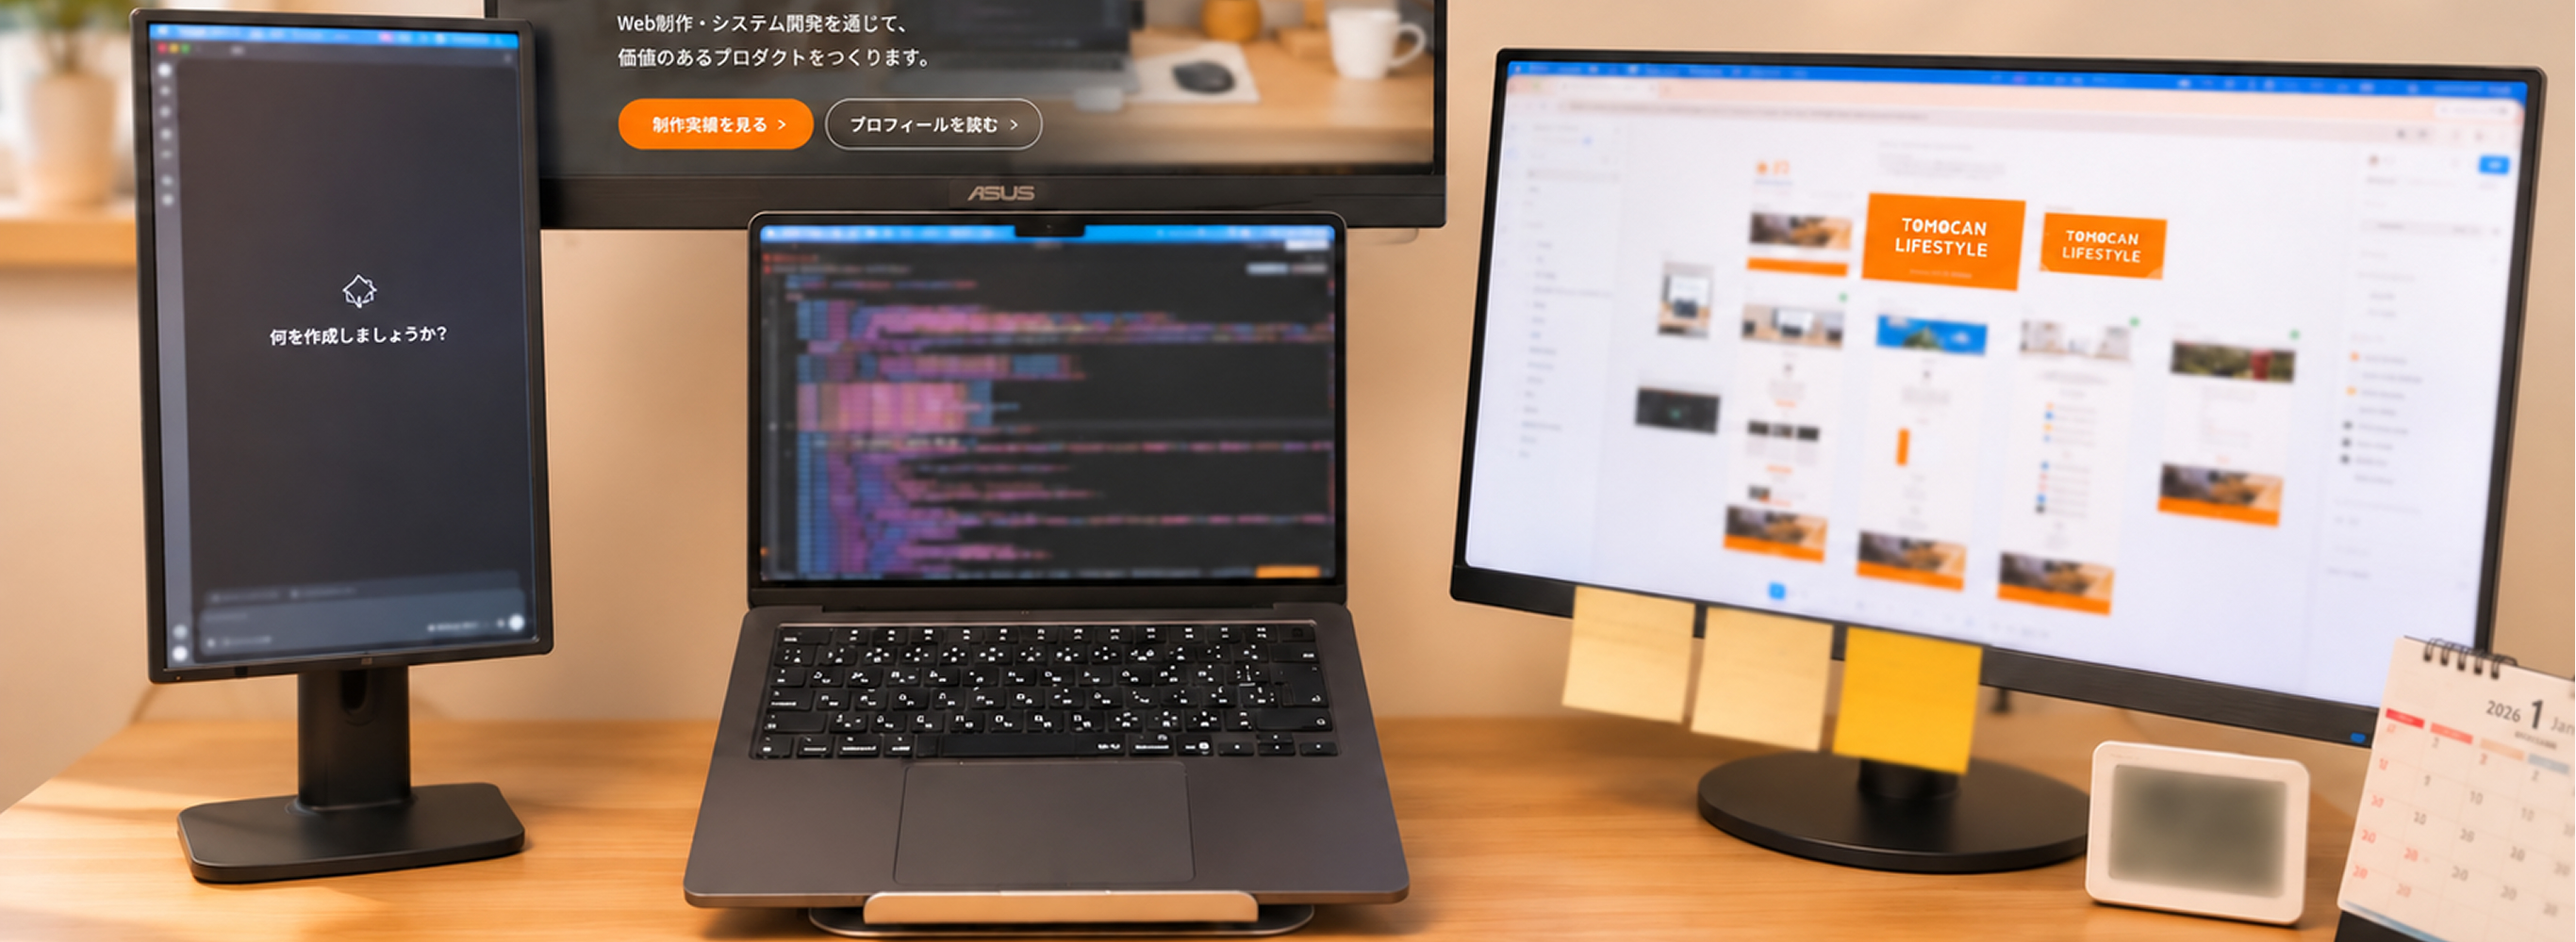
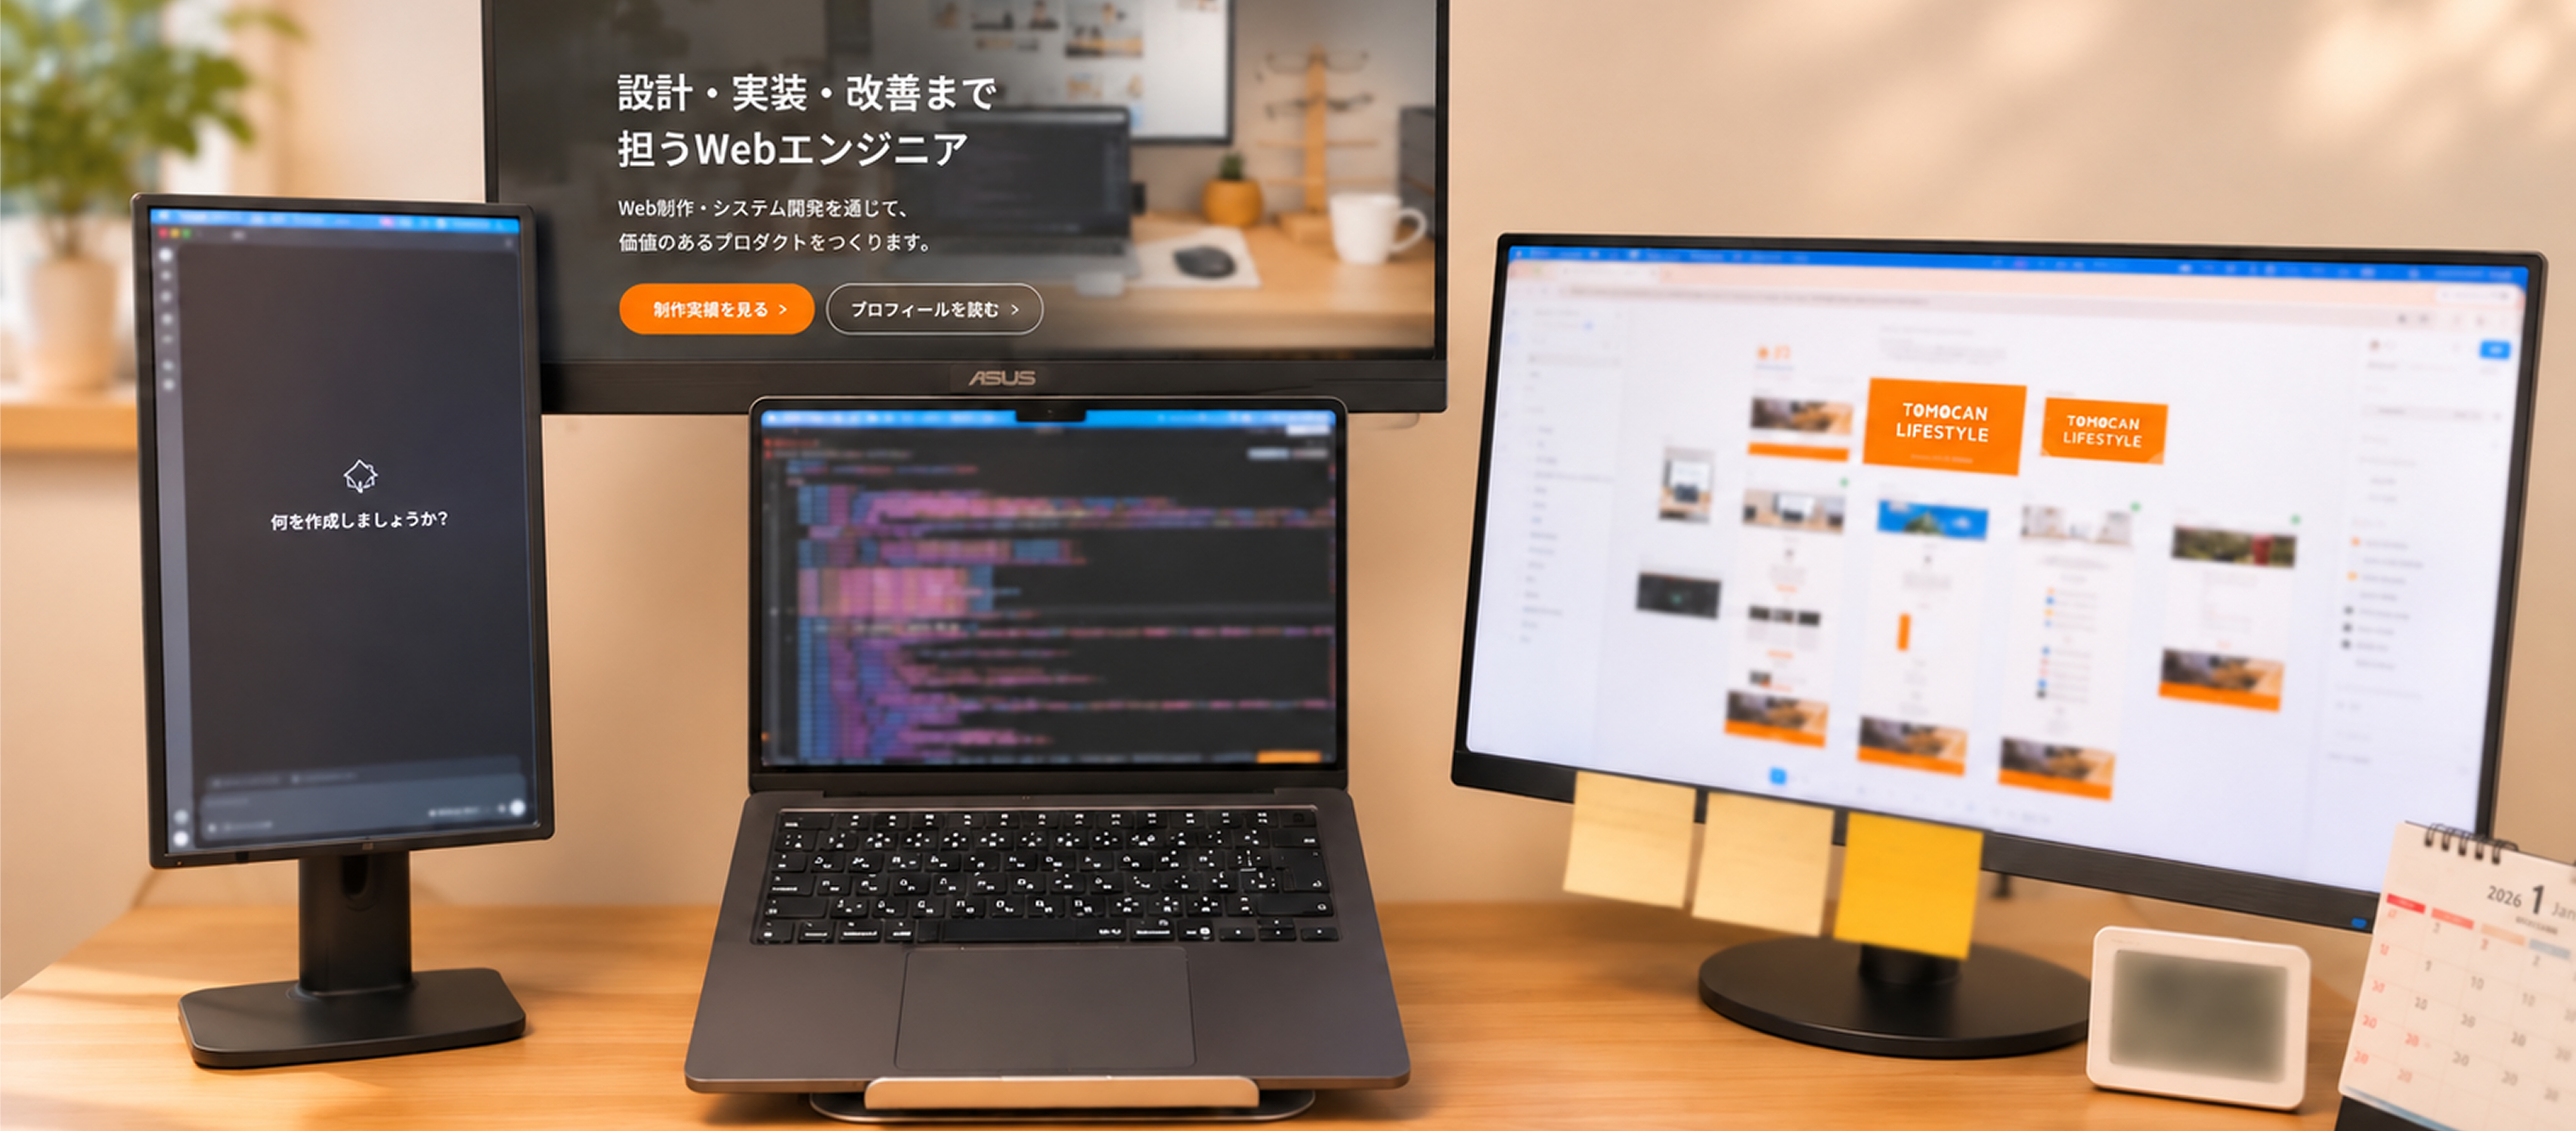
style: update desktop homepage KV to supplied 2732x1200 photo

diff --git a/app/page.tsx b/app/page.tsx
@@ -17,7 +17,7 @@ export default async function Home() {
   ]);
   const {
     props: { srcSet: desktopHeroSrcSet, ...desktopHeroProps },
-  } = getImageProps({ src: '/img/pages/top/img_hero.webp', alt: '', width: 2732, height: 1000, sizes: '100vw', loading: 'eager', fetchPriority: 'high' });
+  } = getImageProps({ src: '/img/pages/top/img_hero.webp', alt: '', width: 2732, height: 1200, sizes: '100vw', loading: 'eager', fetchPriority: 'high' });
   const {
     props: { srcSet: mobileHeroSrcSet },
   } = getImageProps({ src: '/img/pages/top/img_hero_sp.webp', alt: '', width: 750, height: 1000, sizes: '100vw', loading: 'eager', fetchPriority: 'high' });
